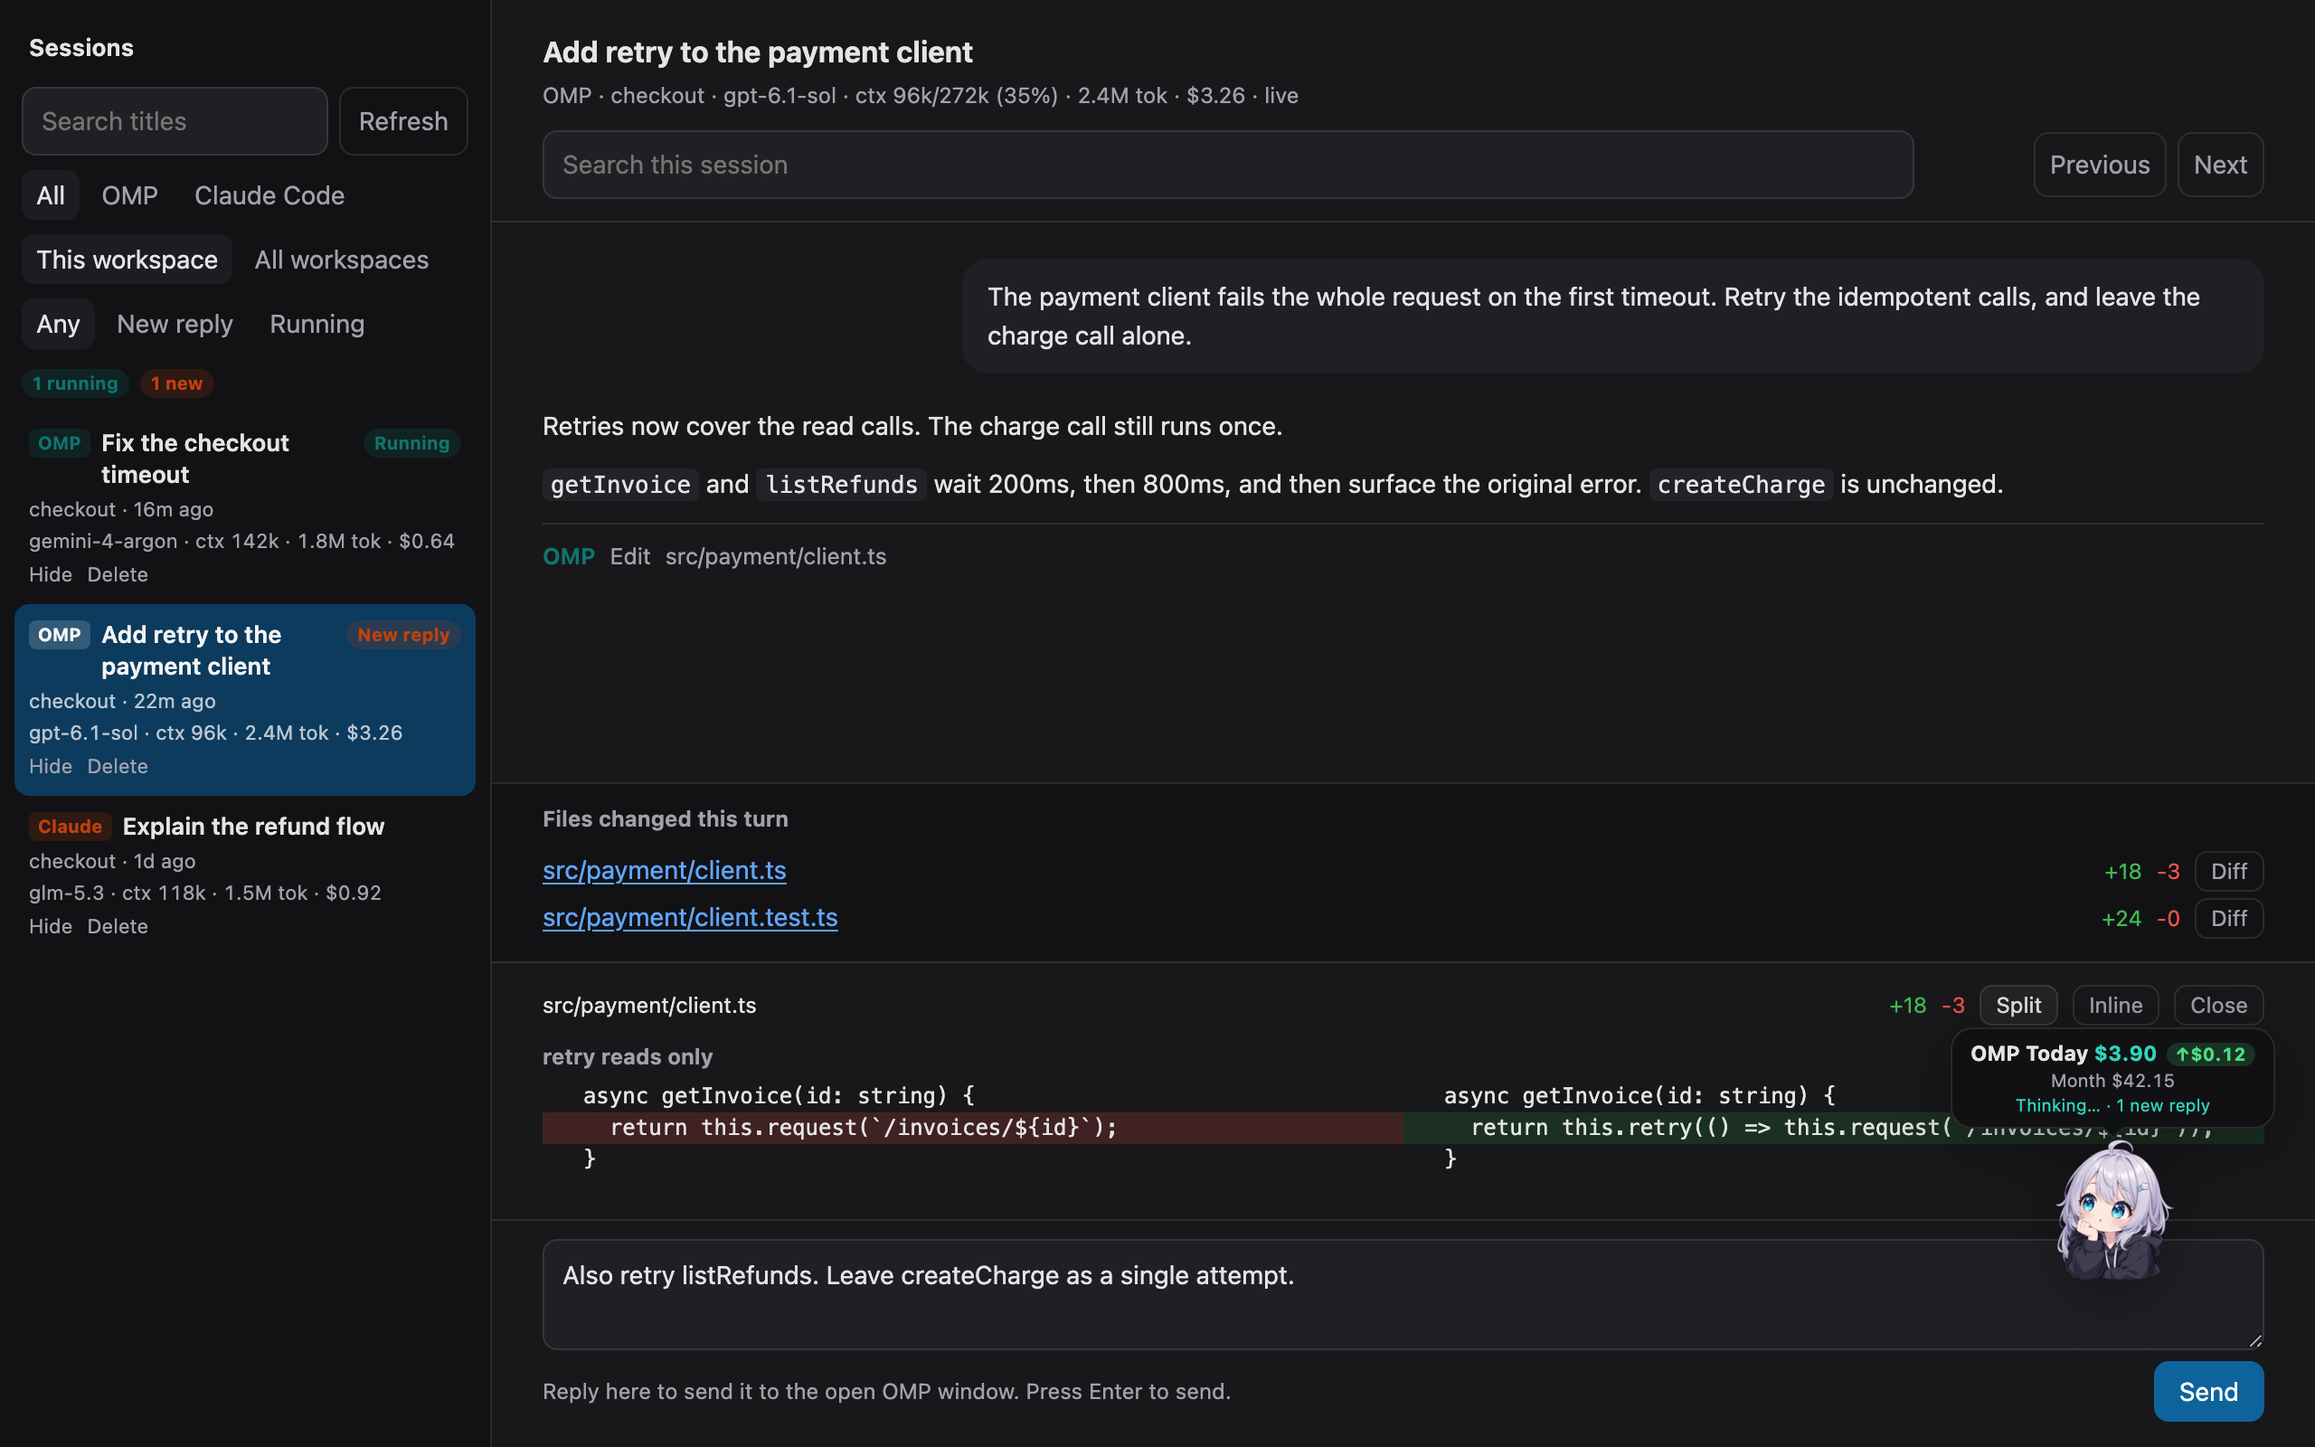
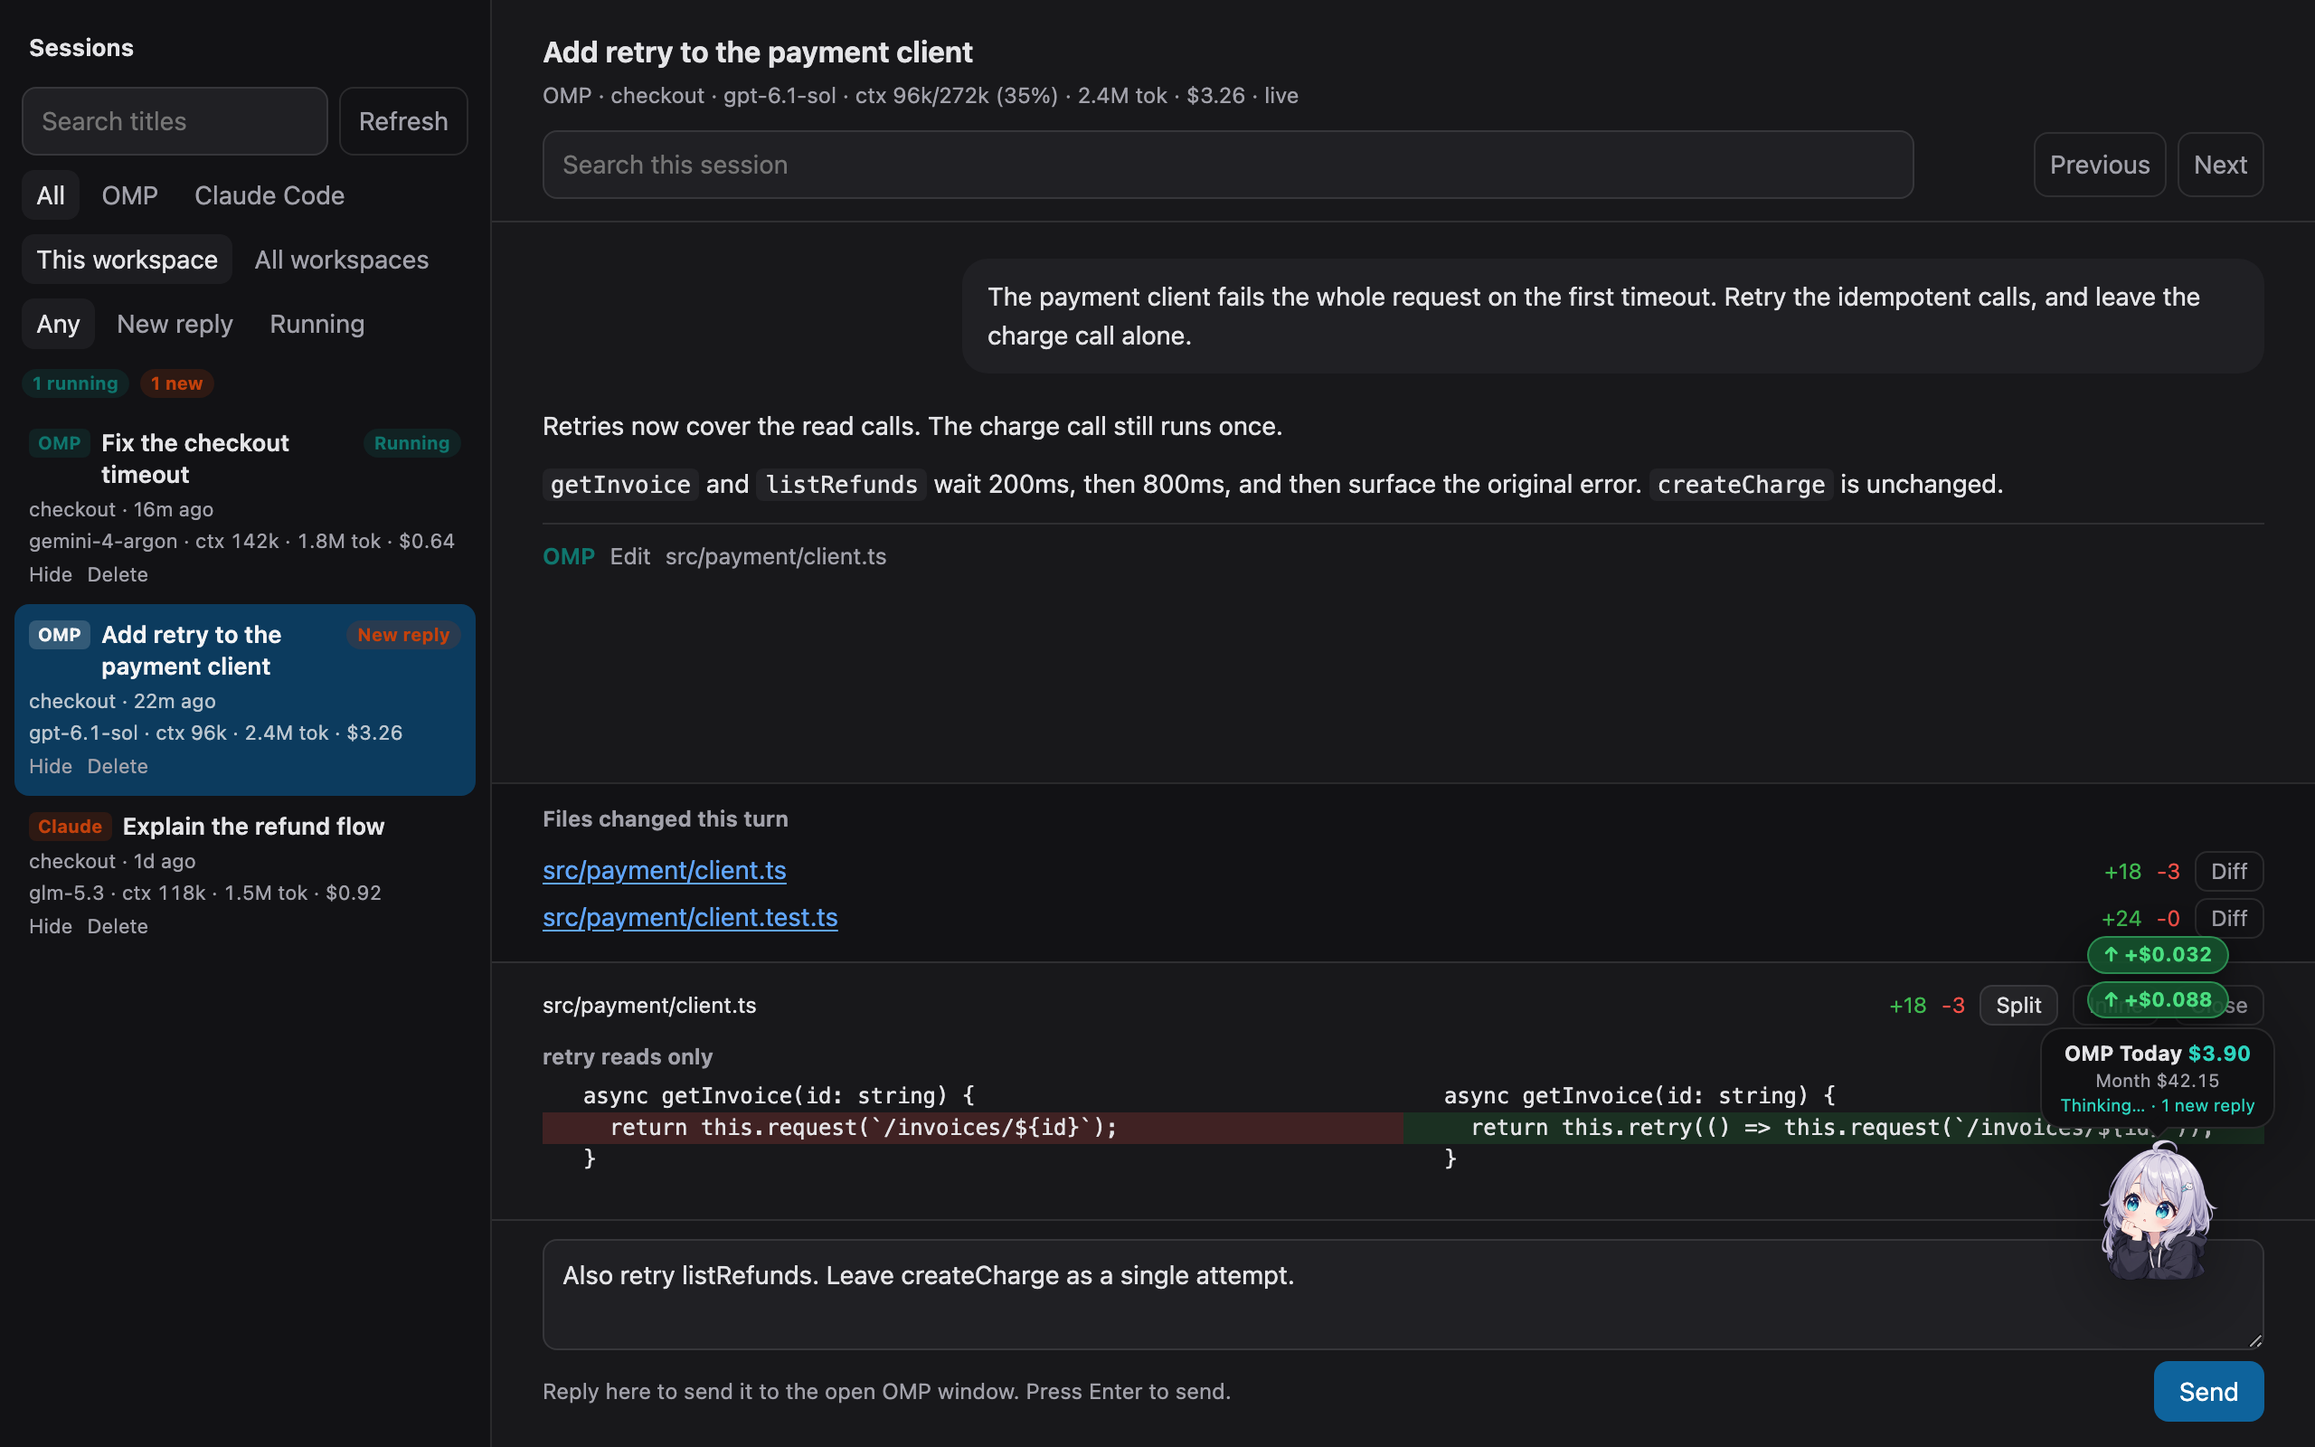
Show persistent per-call floating spend toasts, smooth count-up, and <br> in tables.

Changed region(s): [[0.8438, 0.625, 0.9688, 0.9062]]

diff --git a/media/panel.js b/media/panel.js
@@ -27,11 +27,10 @@ const state = {
     minimized: false,
     x: null,
     y: null,
-    prevSpend: { omp: null, claude: null },
-    deltas: {
-      omp: { amount: 0, timer: 0 },
-      claude: { amount: 0, timer: 0 },
-    },
+    initialized: false,
+    knownSessions: new Map(),
+    displayedToday: { omp: 0, claude: 0 },
+    toastStacks: { omp: null, claude: null },
   },
 };
 
@@ -453,7 +452,8 @@ function syncSessionStats(key, stats) {
     session.totalTokens !== stats.totalTokens ||
     session.cost !== stats.cost ||
     session.todayCost !== stats.todayCost ||
-    session.monthCost !== stats.monthCost;
+    session.monthCost !== stats.monthCost ||
+    session.turnCount !== stats.turnCount;
   Object.assign(session, stats);
   return changed;
 }
@@ -1095,7 +1095,11 @@ function renderTable(parent, lines, index) {
   table.append(head);
   index += 2;
   let rows = 0;
-  while (index < lines.length && lines[index].includes("|") && rows < 30) {
+  while (index < lines.length && lines[index].includes("|") && rows < 250) {
+    if (/^\s*\|?\s*:?-{3,}/.test(lines[index])) {
+      index += 1;
+      continue;
+    }
     const tr = el("tr");
     for (const cell of splitRow(lines[index])) {
       const td = el("td");
@@ -1150,12 +1154,14 @@ function formatMathInline(raw) {
 
 function appendInline(parent, rawText) {
   const text = formatMathInline(rawText);
-  const pattern = new RegExp("(`[^`\\n]+`|\\[[^\\[\\]\\n]+\\]\\([^)\\s]+\\)|\\*\\*[^*\\n]+\\*\\*|https?:\\/\\/[^\\s<>]+|file:\\/\\/[^\\s<>]+|" + ABSOLUTE_PATH + "|" + RELATIVE_PATH + ")", "g");
+  const pattern = new RegExp("(<br\\s*\\/?>|`[^`\\n]+`|\\[[^\\[\\]\\n]+\\]\\([^)\\s]+\\)|\\*\\*[^*\\n]+\\*\\*|https?:\\/\\/[^\\s<>]+|file:\\/\\/[^\\s<>]+|" + ABSOLUTE_PATH + "|" + RELATIVE_PATH + ")", "gi");
   let cursor = 0;
   for (const match of text.matchAll(pattern)) {
     if (match.index > cursor) parent.append(document.createTextNode(text.slice(cursor, match.index)));
     const token = match[0];
-    if (token.startsWith("`")) {
+    if (/^<br\s*\/?>$/i.test(token)) {
+      parent.append(document.createElement("br"));
+    } else if (token.startsWith("`")) {
       const code = el("code");
       linkifyPlain(code, token.slice(1, -1));
       parent.append(code);
@@ -1364,30 +1370,91 @@ function computeSpendSummary() {
     if (session.activity === "running") bucket.running += 1;
     else if (session.activity === "fresh") bucket.fresh += 1;
   }
-  for (const source of ["omp", "claude"]) {
-    const current = summary[source].today;
-    const prev = state.mascot.prevSpend[source];
-    if (prev !== null && current - prev >= 0.0005) {
-      noteSpendDelta(source, current - prev);
-    }
-    if (state.sessions.length > 0) {
-      state.mascot.prevSpend[source] = current;
-    }
-  }
+  noteSessionTurnToasts(state.sessions);
   return summary;
 }
 
-function noteSpendDelta(source, added) {
-  const slot = state.mascot.deltas[source];
-  if (!slot) return;
-  slot.amount = Number((slot.amount + added).toFixed(6));
-  clearTimeout(slot.timer);
-  slot.timer = setTimeout(() => {
-    slot.amount = 0;
-    renderMascots();
-  }, 4500);
+function ensureToastStack(source) {
+  if (!state.mascot.toastStacks[source]) {
+    state.mascot.toastStacks[source] = el("div", "mascot-toast-stack");
+  }
+  return state.mascot.toastStacks[source];
 }
 
+function formatCallDelta(amount) {
+  const n = Number(amount) || 0;
+  if (n <= 0) return "";
+  if (n < 0.001) return `+$${n.toFixed(4)}`;
+  if (n < 0.1) return `+$${n.toFixed(3)}`;
+  return `+$${n.toFixed(2)}`;
+}
+
+function spawnSpendToast(source, amount, delayMs = 0) {
+  const text = formatCallDelta(amount);
+  if (!text) return;
+  setTimeout(() => {
+    const stack = ensureToastStack(source);
+    while (stack.children.length >= 5) {
+      stack.firstElementChild.remove();
+    }
+    const toast = el("div", "spend-toast", `↑ ${text}`);
+    stack.append(toast);
+    const amtEl = mascotDock?.querySelector(`.mascot-card.${source} .amt`);
+    if (amtEl) {
+      amtEl.classList.add("pulse");
+      setTimeout(() => amtEl.classList.remove("pulse"), 700);
+    }
+    setTimeout(() => {
+      toast.classList.add("fading");
+    }, 5000);
+    setTimeout(() => {
+      toast.remove();
+    }, 6500);
+  }, delayMs);
+}
+
+function noteSessionTurnToasts(allSessions) {
+  if (!allSessions || !allSessions.length) return;
+  const known = state.mascot.knownSessions;
+  if (!state.mascot.initialized) {
+    for (const session of allSessions) {
+      known.set(session.key, {
+        turnCount: Number(session.turnCount) || 0,
+        todayCost: Number(session.todayCost) || 0,
+      });
+    }
+    state.mascot.initialized = true;
+    return;
+  }
+  const queued = { omp: [], claude: [] };
+  for (const session of allSessions) {
+    const source = session.source;
+    if (source !== "omp" && source !== "claude") continue;
+    const turnCount = Number(session.turnCount) || 0;
+    const todayCost = Number(session.todayCost) || 0;
+    const prev = known.get(session.key);
+    if (!prev) {
+      const recent = Array.isArray(session.recentTurnCosts) ? session.recentTurnCosts : [];
+      if (recent.length) queued[source].push(...recent);
+      else if (todayCost >= 0.0002) queued[source].push(todayCost);
+    } else {
+      const addedTurns = turnCount - prev.turnCount;
+      const recent = Array.isArray(session.recentTurnCosts) ? session.recentTurnCosts : [];
+      if (addedTurns > 0 && recent.length > 0) {
+        const slice = recent.slice(-Math.min(addedTurns, recent.length));
+        queued[source].push(...slice);
+      } else if (todayCost - prev.todayCost >= 0.0002) {
+        queued[source].push(todayCost - prev.todayCost);
+      }
+    }
+    known.set(session.key, { turnCount, todayCost });
+  }
+  for (const source of ["omp", "claude"]) {
+    queued[source].forEach((amt, idx) => {
+      spawnSpendToast(source, amt, idx * 220);
+    });
+  }
+}
 function visibleMascotSources() {
   const mode = state.mascot.mode || "auto";
   if (mode === "omp") return ["omp"];
@@ -1461,16 +1528,12 @@ function renderMascots() {
       ? (info.running > 1 ? `Thinking (${info.running} running)` : "Thinking…")
       : "Idle";
     card.title = `${label} · ${moodText} (${scopeLabel})\nToday: $${info.today.toFixed(4)}\nThis month: $${info.month.toFixed(4)}\nDrag to move · Right-click to customize`;
+    const toastStack = ensureToastStack(source);
     const bubble = el("div", "mascot-bubble");
     const mainLine = el("div", "mascot-bubble-main");
-    mainLine.append(
-      document.createTextNode(`${label} Today `),
-      el("span", `amt ${source}`, formatSpendAmount(info.today)),
-    );
-    const deltaAmt = state.mascot.deltas[source]?.amount || 0;
-    if (deltaAmt > 0) {
-      mainLine.append(el("span", "spend-delta", `↑${formatSpendAmount(deltaAmt)}`));
-    }
+    const amtSpan = el("span", `amt ${source}`, formatSpendAmount(info.today));
+    animateSpendValue(source, amtSpan, info.today);
+    mainLine.append(document.createTextNode(`${label} Today `), amtSpan);
     const subLine = el("div", "mascot-bubble-sub", `Month ${formatSpendAmount(info.month)}`);
     bubble.append(mainLine, subLine);
     const statusParts = [];
@@ -1486,11 +1549,37 @@ function renderMascots() {
     img.src = src;
     img.alt = `${label} mascot`;
     img.draggable = false;
-    card.append(bubble, img);
+    card.append(toastStack, bubble, img);
     row.append(card);
   }
   mascotDock.append(row);
   applyMascotPosition();
+}
+
+function animateSpendValue(source, element, targetValue) {
+  const target = Number(targetValue) || 0;
+  const prev = state.mascot.displayedToday[source];
+  state.mascot.displayedToday[source] = target;
+  if (!(prev > 0) || Math.abs(target - prev) < 0.0005 || target < prev) {
+    element.textContent = formatSpendAmount(target);
+    return;
+  }
+  const start = performance.now();
+  const duration = 650;
+  element.classList.add("pulse");
+  const step = (now) => {
+    const t = Math.min(1, (now - start) / duration);
+    const eased = 1 - Math.pow(1 - t, 3);
+    const current = prev + (target - prev) * eased;
+    element.textContent = formatSpendAmount(current);
+    if (t < 1 && element.isConnected) {
+      requestAnimationFrame(step);
+    } else if (element.isConnected) {
+      element.textContent = formatSpendAmount(target);
+      setTimeout(() => element.classList.remove("pulse"), 250);
+    }
+  };
+  requestAnimationFrame(step);
 }
 
 let diagramSeq = 0;

diff --git a/sources.js b/sources.js
@@ -124,6 +124,8 @@ function refreshSessionMeta(session) {
   session.cost = meta.cost || 0;
   session.todayCost = meta.todayCost || 0;
   session.monthCost = meta.monthCost || 0;
+  session.turnCount = meta.turnCount || 0;
+  session.recentTurnCosts = meta.recentTurnCosts || [];
   return session;
 }
 
@@ -593,6 +595,8 @@ function summary(source, filePath, meta, folders) {
     cost: meta.cost || 0,
     todayCost: meta.todayCost || 0,
     monthCost: meta.monthCost || 0,
+    turnCount: meta.turnCount || 0,
+    recentTurnCosts: meta.recentTurnCosts || [],
     inWorkspace: belongsToWorkspace(cwd, folders),
     filePath,
   };
@@ -779,6 +783,7 @@ function resolveStats(acc, fallbackMtime) {
   let todayWeight = 0;
   let monthWeight = 0;
   let totalWeight = 0;
+  const claudeWeights = [];
   if (acc.msgTokens && acc.msgTokens.size > 0) {
     for (const item of acc.msgTokens.values()) {
       msgTokSum += item.tok;
@@ -789,26 +794,43 @@ function resolveStats(acc, fallbackMtime) {
       totalWeight += weight;
       if (ts >= monthStart) monthWeight += weight;
       if (ts >= dayStart) todayWeight += weight;
+      claudeWeights.push({ ts, weight });
     }
   }
   const totalTokens = Math.max(acc.totalTokens || 0, acc.costStateTokens || 0, msgTokSum);
   const rawCost = acc.costStateUSD > 0 ? acc.costStateUSD : (acc.cost > 0 ? acc.cost : msgCostSum);
   let todayCost = 0;
   let monthCost = 0;
+  let turnCount = 0;
+  let recentTurnCosts = [];
   if (acc.turnCosts && acc.turnCosts.length > 0) {
+    turnCount = acc.turnCosts.length;
     for (const item of acc.turnCosts) {
       const ts = item.ts || fallbackTs;
       if (ts >= monthStart) monthCost += item.cost;
       if (ts >= dayStart) todayCost += item.cost;
     }
+    recentTurnCosts = acc.turnCosts
+      .filter((item) => (item.ts || fallbackTs) >= dayStart && item.cost > 0)
+      .slice(-8)
+      .map((item) => Number(item.cost.toFixed(6)));
   } else if (rawCost > 0) {
     if (totalWeight > 0) {
       todayCost = rawCost * (todayWeight / totalWeight);
       monthCost = rawCost * (monthWeight / totalWeight);
+      turnCount = claudeWeights.length;
+      recentTurnCosts = claudeWeights
+        .filter((item) => item.ts >= dayStart && item.weight > 0)
+        .slice(-8)
+        .map((item) => Number(((rawCost * item.weight) / totalWeight).toFixed(6)));
     } else {
       const ts = acc.costStateTs || fallbackTs;
       if (ts >= monthStart) monthCost = rawCost;
-      if (ts >= dayStart) todayCost = rawCost;
+      if (ts >= dayStart) {
+        todayCost = rawCost;
+        turnCount = 1;
+        recentTurnCosts = [Number(rawCost.toFixed(6))];
+      }
     }
   }
   const spec = lookupModelSpec(acc.model);
@@ -820,6 +842,8 @@ function resolveStats(acc, fallbackMtime) {
     cost: rawCost > 0 ? Number(rawCost.toFixed(6)) : 0,
     todayCost: todayCost > 0 ? Number(todayCost.toFixed(6)) : 0,
     monthCost: monthCost > 0 ? Number(monthCost.toFixed(6)) : 0,
+    turnCount,
+    recentTurnCosts,
   };
 }
 

diff --git a/media/panel.css b/media/panel.css
@@ -438,13 +438,15 @@ a.link {
   font-size: 13px;
 }
 .md th, .md td {
-  border-bottom: 1px solid var(--line);
-  padding: 6px 8px;
+  border: 1px solid var(--line);
+  padding: 7px 10px;
   text-align: left;
   vertical-align: top;
-  overflow-wrap: anywhere;
+  overflow-wrap: break-word;
+  word-break: normal;
 }
-.md th { font-weight: 650; color: var(--muted); }
+.md th:first-child, .md td:first-child { min-width: 9.5em; }
+.md th { font-weight: 650; color: var(--muted); background: var(--soft); }
 .thinking { margin: 0 0 0.2em; }
 .thinking summary { cursor: pointer; color: var(--muted); font-size: 12.5px; }
 .thinking .md {
@@ -548,18 +550,39 @@ a.link {
   white-space: nowrap;
   font-variant-numeric: tabular-nums;
 }
-.amt.omp { color: #2dd4bf; }
-.amt.claude { color: #fb923c; }
-.spend-delta {
-  display: inline-block;
-  margin-left: 5px;
-  padding: 0 5px;
+.amt.omp { color: #2dd4bf; transition: color 0.25s ease, transform 0.25s ease; display: inline-block; }
+.amt.claude { color: #fb923c; transition: color 0.25s ease, transform 0.25s ease; display: inline-block; }
+.amt.pulse {
+  color: #4ade80 !important;
+  transform: scale(1.08);
+}
+.mascot-toast-stack {
+  display: flex;
+  flex-direction: column;
+  align-items: center;
+  gap: 4px;
+  margin-bottom: 5px;
+  pointer-events: none;
+}
+.mascot-toast-stack:empty { display: none; }
+.spend-toast {
+  padding: 2px 8px;
   border-radius: 999px;
-  font-size: 10px;
+  font-size: 11px;
   font-weight: 700;
+  line-height: 1.35;
   color: #4ade80;
-  background: rgba(74, 222, 128, 0.16);
-  animation: spendPop 0.35s cubic-bezier(0.16, 1, 0.3, 1);
+  background: rgba(20, 83, 45, 0.88);
+  border: 1px solid rgba(74, 222, 128, 0.45);
+  box-shadow: 0 4px 12px rgba(0, 0, 0, 0.35);
+  font-variant-numeric: tabular-nums;
+  white-space: nowrap;
+  animation: toastEnter 0.28s cubic-bezier(0.16, 1, 0.3, 1);
+  transition: opacity 1.4s ease, transform 1.4s ease;
+}
+.spend-toast.fading {
+  opacity: 0;
+  transform: translateY(-10px) scale(0.95);
 }
 .mascot-status {
   font-size: 9.5px;
@@ -570,8 +593,8 @@ a.link {
 }
 .mascot-status.running { color: #2dd4bf; }
 .mascot-status.fresh { color: #fb923c; }
-@keyframes spendPop {
-  from { opacity: 0; transform: translateY(4px) scale(0.9); }
+@keyframes toastEnter {
+  from { opacity: 0; transform: translateY(6px) scale(0.85); }
   to { opacity: 1; transform: translateY(0) scale(1); }
 }
 .mascot-avatar {
